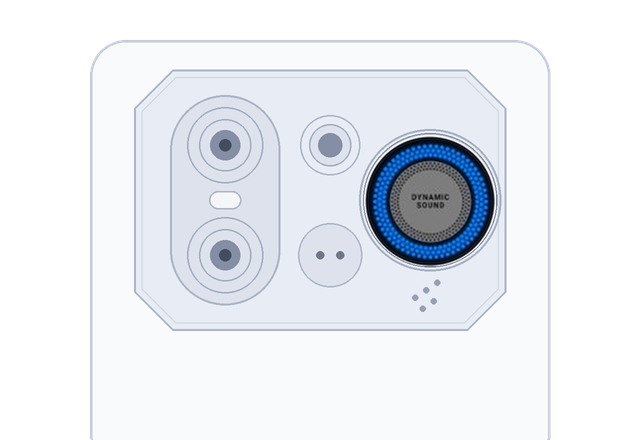
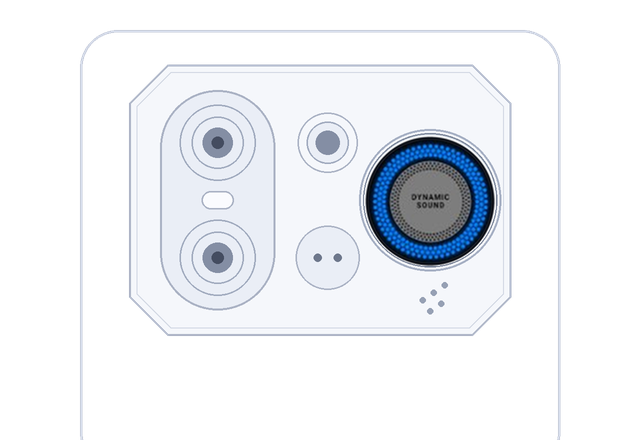
style: 将顶部示意图展示卡片背景改为纯白色，与线框图完美融合

Changed region(s): [[0.1875, 0.1477, 0.8125, 0.7682], [0.125, 0.0591, 0.875, 1.0], [0.5, 0.65, 0.5312, 0.6795]]

diff --git a/style.css b/style.css
@@ -477,9 +477,9 @@ body {
    全新设备展示卡片（DYNAMIC SOUND 发光环模组）与动效
    ========================================================================== */
 .device-card-container {
-  background: #f0f2f7;
+  background: var(--card-bg, #ffffff);
   border-radius: 18px;
-  padding: 8px 12px 0 12px;
+  padding: 10px 14px 0 14px;
   display: flex;
   justify-content: center;
   align-items: flex-end;
